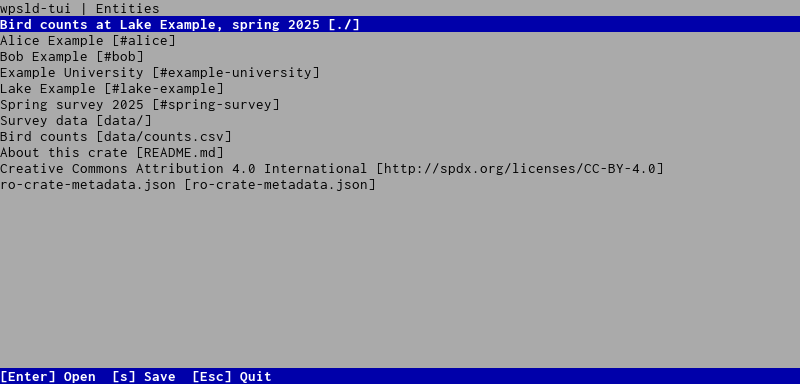
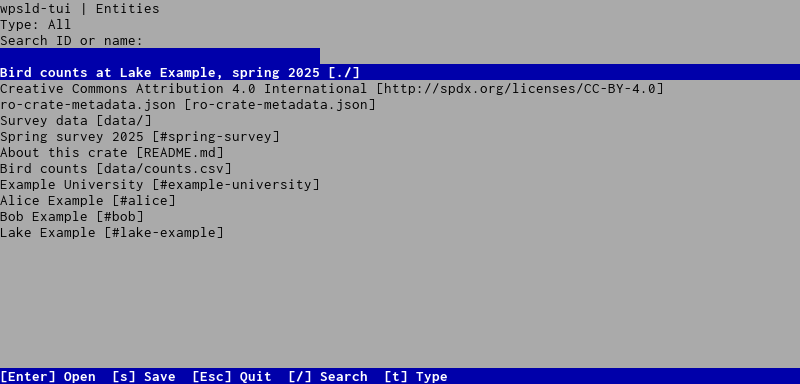
Update the viewer's screenshots for the search and type filter
The entity list now has a search line and a type filter, so the
screenshots are made again from it, and the README shows the search and
the type tree too. ReadmeScreenshots finds the selected row among the
rows drawn on blue, as the search field is blue as well.

diff --git a/tui/src/test/java/no/s11/wpsld/tui/ReadmeScreenshots.java b/tui/src/test/java/no/s11/wpsld/tui/ReadmeScreenshots.java
@@ -70,7 +70,22 @@ public class ReadmeScreenshots {
 			try {
 				await(terminal, "[Enter] Open");
 				save(terminal, out.resolve("tui-entities.png"));
-				// Alice, the first person
+				// The type tree, and the list filtered by a search
+				terminal.addInput(new KeyStroke('t', false, false));
+				await(terminal, "Filter by type");
+				save(terminal, out.resolve("tui-type-filter.png"));
+				key(terminal, KeyType.Escape);
+				await(terminal, "[Esc] Quit");
+				for (char c : "ali".toCharArray()) {
+					terminal.addInput(new KeyStroke(c, false, false));
+				}
+				await(terminal, "\nali ");
+				save(terminal, out.resolve("tui-search.png"));
+				for (int i = 0; i < 3; i++) {
+					key(terminal, KeyType.Backspace);
+				}
+				await(terminal, "Bob Example");
+				// Alice, a person
 				for (int i = 0; i < 20 && !selectedRow(terminal).contains("#alice"); i++) {
 					key(terminal, KeyType.ArrowDown);
 				}
@@ -143,20 +158,19 @@ public class ReadmeScreenshots {
 		return text.toString();
 	}
 
-	/** The row drawn on a blue background, other than the last (the key bar). */
+	/** The text of the rows drawn on a blue background, other than the last (the key bar). */
 	private static String selectedRow(DefaultVirtualTerminal terminal) {
 		TerminalSize size = terminal.getTerminalSize();
+		StringBuilder text = new StringBuilder();
 		for (int row = 1; row < size.getRows() - 1; row++) {
-			TextCharacter first = terminal.getCharacter(0, row);
-			if (first.getBackgroundColor() == TextColor.ANSI.BLUE) {
-				StringBuilder text = new StringBuilder();
+			if (terminal.getCharacter(0, row).getBackgroundColor() == TextColor.ANSI.BLUE) {
 				for (int col = 0; col < size.getColumns(); col++) {
 					text.append(terminal.getCharacter(col, row).getCharacterString());
 				}
-				return text.toString();
+				text.append('\n');
 			}
 		}
-		return "";
+		return text.toString();
 	}
 
 	private static Color color(TextColor color, Color byDefault) {

diff --git a/README.md b/README.md
@@ -138,6 +138,8 @@ changed on disk since opening.
 |---|---|
 | ![The entities of the example crate](docs/screenshots/tui-entities.png) | ![An author opened from the example crate](docs/screenshots/tui-properties.png) |
 | The entities, root first | An author's properties; Enter opens a reference, `e` edits |
+| ![The entities filtered by a search](docs/screenshots/tui-search.png) | ![Choosing a type to filter the entities by](docs/screenshots/tui-type-filter.png) |
+| Type to filter by name or ID; Tab goes to the list | `t` chooses a type from the tree of the crate's types |
 | ![Editing a text value](docs/screenshots/tui-edit-text.png) | ![Choosing the entities a property refers to](docs/screenshots/tui-choose-reference.png) |
 | `e` on a text value: Enter inserts a newline, Tab goes to Apply | `e` on a reference: type to filter, Space selects |
 | ![The organization an author's affiliation refers to, opened from the author](docs/screenshots/tui-reference.png) | |
